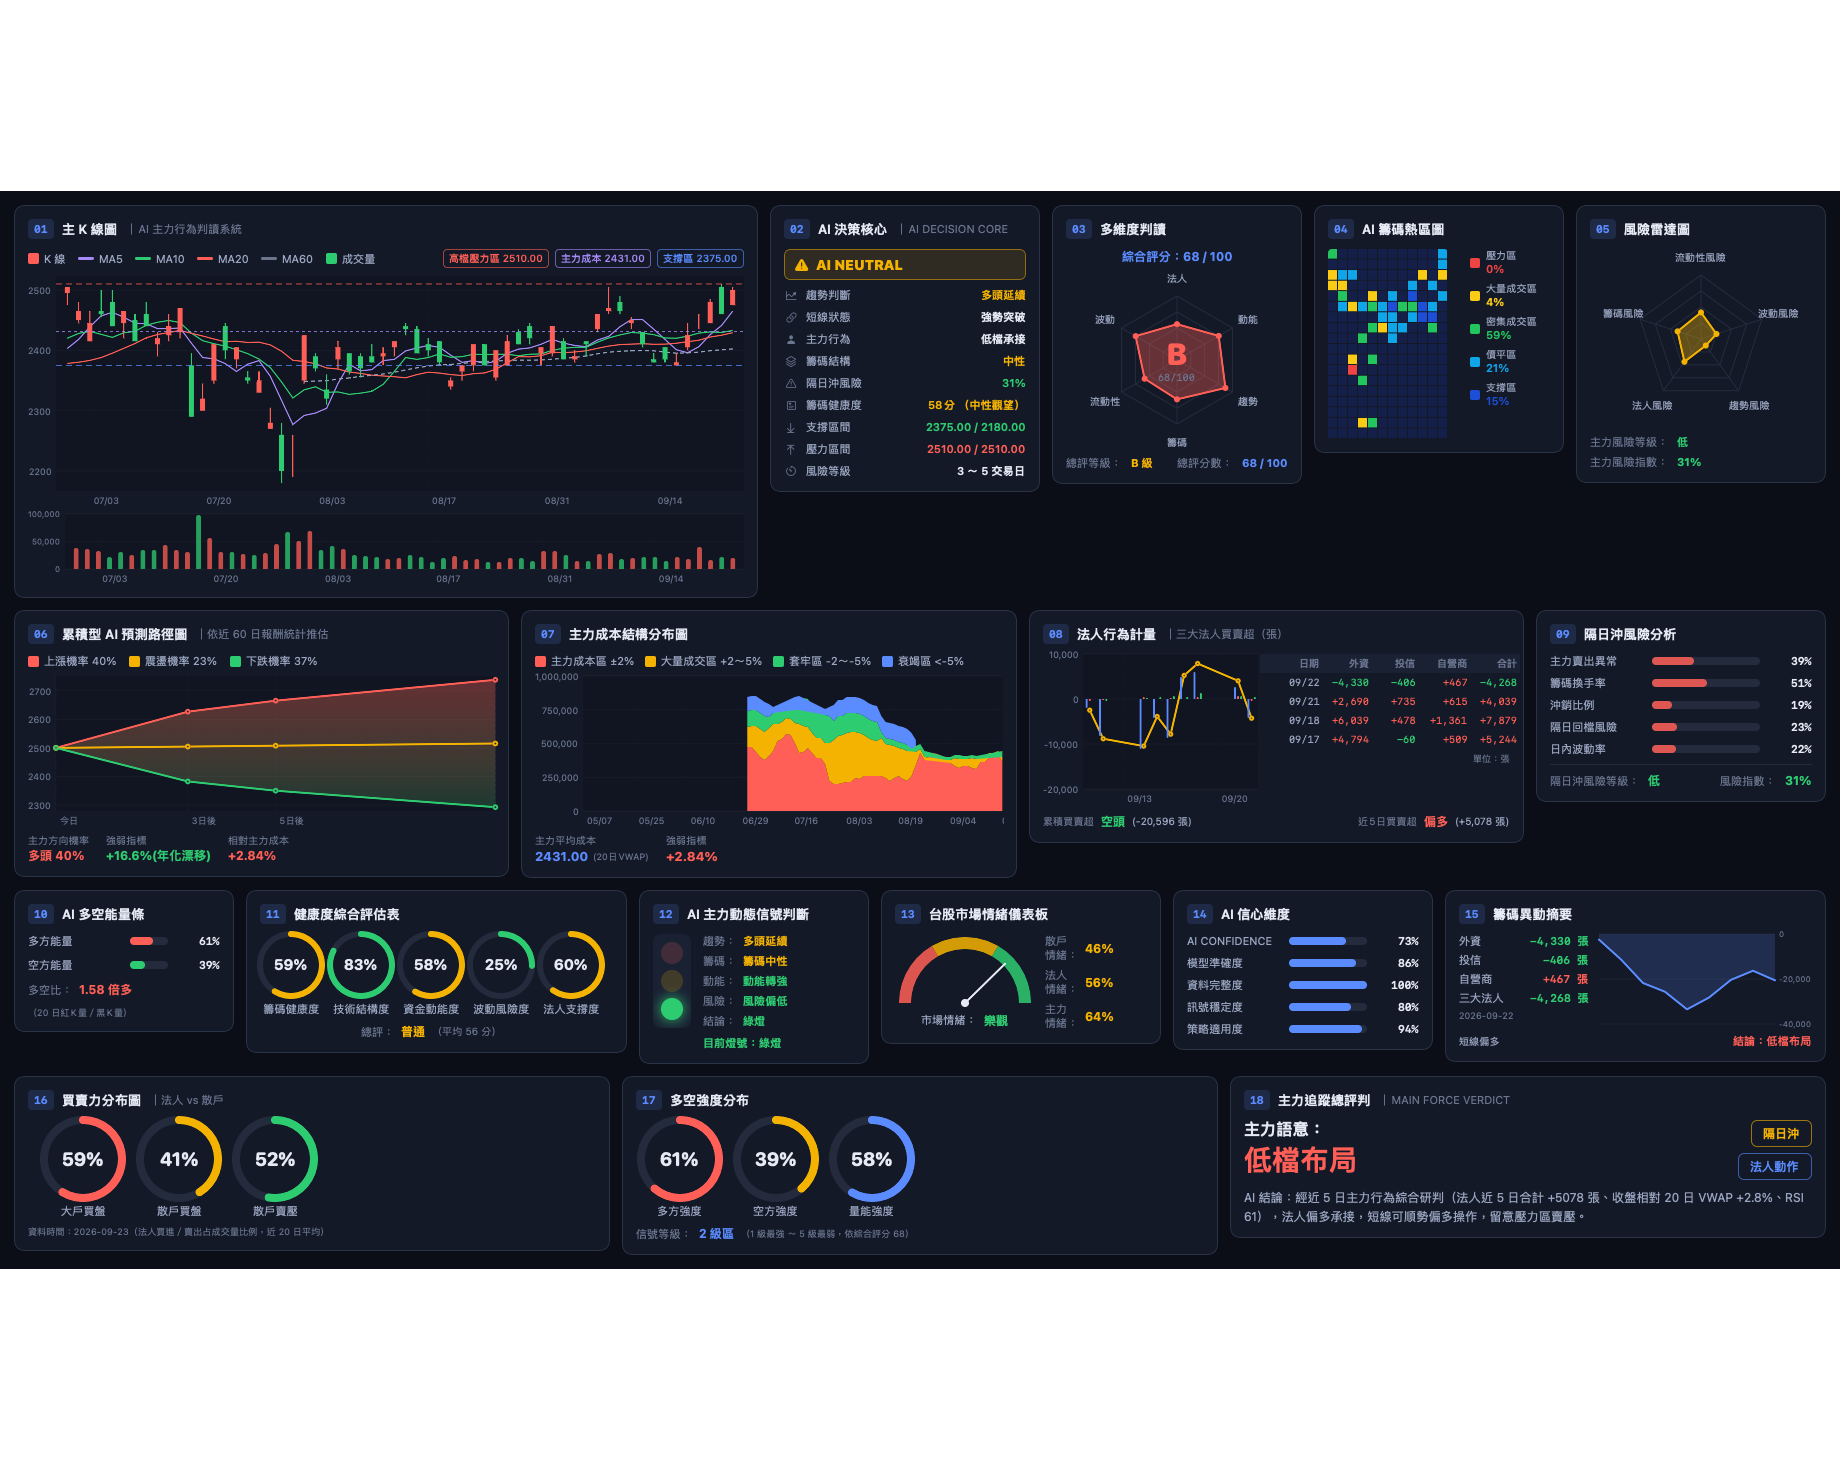
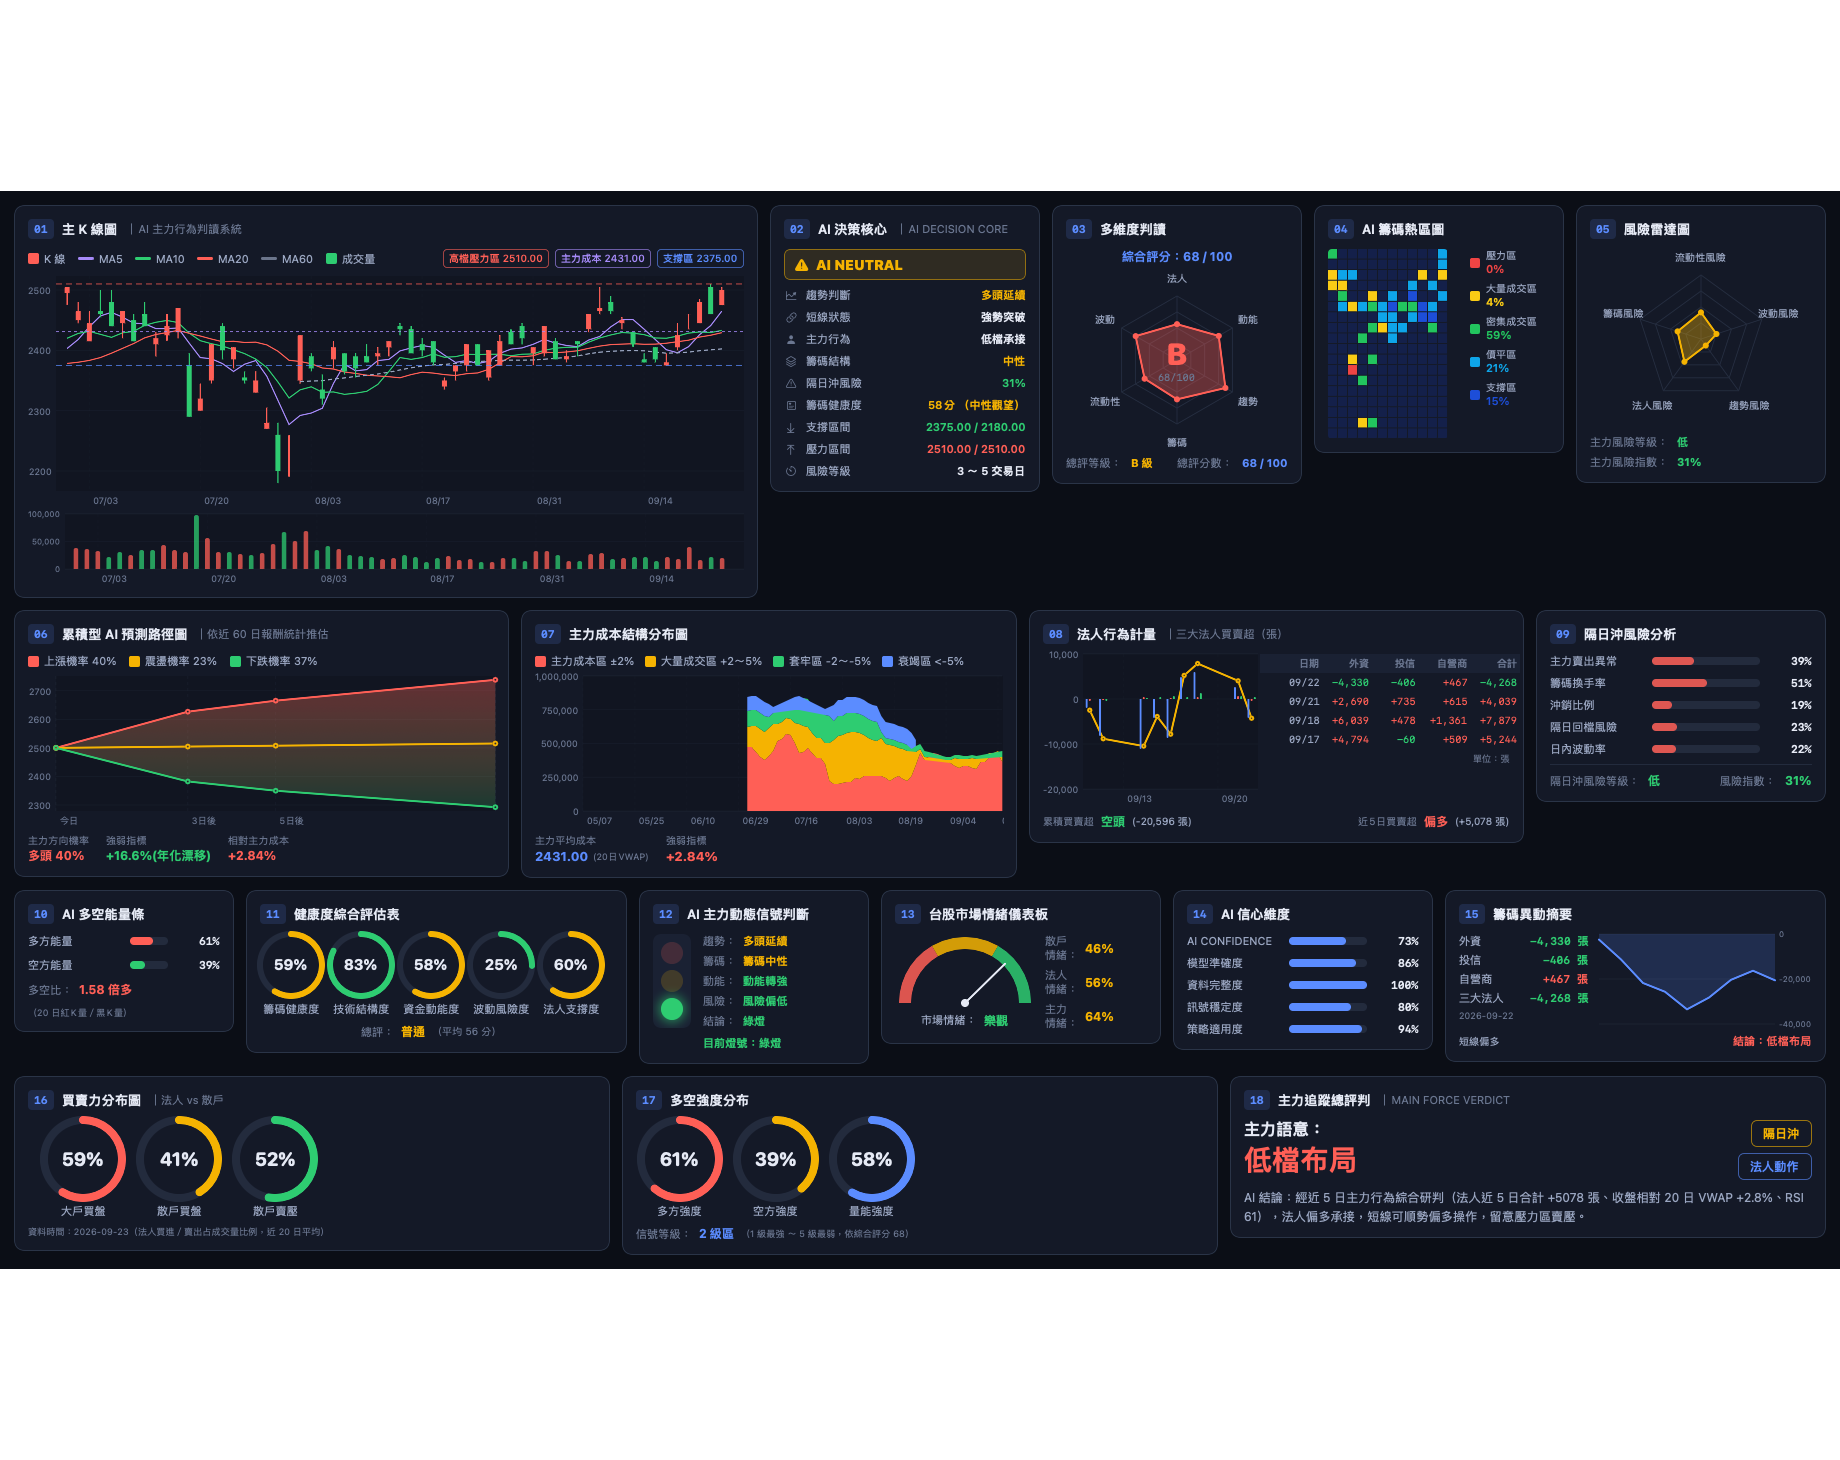
fix: 修正實機執行時發現的視窗與版面問題
實際啟動 App 查詢 2330 後發現並修正：

- 視窗 1180 寬時儀表板被水平裁切且無捲軸：內容區改為雙軸捲動，
  並以 minWidth 讓單一圖表分頁仍撐滿可視寬度
- 視窗預設尺寸放大為 1720×1000，最小尺寸提高到 1280×800
- 關閉視窗後無法再開啟：移除對 .newItem 的覆寫以保留「開新視窗」（⌘N），
  「回到起始畫面」改為 ⌘⇧N，並在關閉最後一個視窗時結束 App
- 頂部行情摘要列在窄視窗可水平捲動，避免右側欄位被擠出畫面
- K 線／MACD 圖右側留白，避免最後一個日期標籤被截斷

Changed region(s): [[0.031, 0.1849, 0.4027, 0.3082], [0.062, 0.3699, 0.4027, 0.4007]]

diff --git a/TWStockAI/Views/RootView.swift b/TWStockAI/Views/RootView.swift
@@ -38,18 +38,23 @@ struct RootView: View {
     @ViewBuilder
     private var content: some View {
         if let dataset = state.dataset, let analysis = state.analysis {
-            ScrollView {
-                Group {
-                    switch state.selectedTab {
-                    case .dashboard: DashboardView(dataset: dataset, analysis: analysis)
-                    case .report: ReportView(dataset: dataset, analysis: analysis)
-                    case .alerts: AlertsView(dataset: dataset, analysis: analysis)
-                    case .kdma: KDMAChartView(dataset: dataset, analysis: analysis)
-                    case .macd: MACDChartView(dataset: dataset, analysis: analysis)
-                    case .raw: RawDataTableView(dataset: dataset, analysis: analysis)
+            // 儀表板寬度大於視窗時需要水平捲動，否則兩側面板會被裁切；
+            // 同時以 minWidth 讓單一圖表分頁仍能撐滿可視寬度。
+            GeometryReader { proxy in
+                ScrollView([.vertical, .horizontal]) {
+                    Group {
+                        switch state.selectedTab {
+                        case .dashboard: DashboardView(dataset: dataset, analysis: analysis)
+                        case .report: ReportView(dataset: dataset, analysis: analysis)
+                        case .alerts: AlertsView(dataset: dataset, analysis: analysis)
+                        case .kdma: KDMAChartView(dataset: dataset, analysis: analysis)
+                        case .macd: MACDChartView(dataset: dataset, analysis: analysis)
+                        case .raw: RawDataTableView(dataset: dataset, analysis: analysis)
+                        }
                     }
+                    .padding(14)
+                    .frame(minWidth: proxy.size.width, alignment: .topLeading)
                 }
-                .padding(14)
             }
             .background(Theme.background)
 

diff --git a/TWStockAI/App/TWStockAIApp.swift b/TWStockAI/App/TWStockAIApp.swift
@@ -1,23 +1,24 @@
 import SwiftUI
+import AppKit
 
 /// 應用程式進入點。
 @main
 struct TWStockAIApp: App {
 
     @StateObject private var state = AppState()
+    @NSApplicationDelegateAdaptor(AppDelegate.self) private var delegate
 
     var body: some Scene {
         WindowGroup {
             RootView()
                 .environmentObject(state)
-                .frame(minWidth: 1180, minHeight: 760)
+                .frame(minWidth: 1280, minHeight: 800)
                 .preferredColorScheme(.dark)
         }
         .windowStyle(.hiddenTitleBar)
+        .defaultSize(width: 1720, height: 1000)
         .commands {
-            // 以選單與快捷鍵補強桌面體驗
-            CommandGroup(replacing: .newItem) { }
-
+            // 保留系統預設的「新增視窗」（⌘N），避免關閉視窗後無法再開啟
             CommandMenu("查詢") {
                 Button("重新分析") {
                     Task { await state.analyze(forceReload: true) }
@@ -28,8 +29,19 @@ struct TWStockAIApp: App {
                 Divider()
 
                 Button("回到起始畫面") { state.reset() }
-                    .keyboardShortcut("n", modifiers: .command)
+                    .keyboardShortcut("n", modifiers: [.command, .shift])
             }
         }
+    }
+}
+
+
+/// 應用程式代理：處理視窗關閉後的生命週期。
+final class AppDelegate: NSObject, NSApplicationDelegate {
+
+    /// 這是單視窗工具型 App，關閉最後一個視窗時直接結束，
+    /// 避免留下沒有視窗卻仍在執行的程序。
+    func applicationShouldTerminateAfterLastWindowClosed(_ sender: NSApplication) -> Bool {
+        true
     }
 }

diff --git a/TWStockAI/Views/Panels/MainChartPanel.swift b/TWStockAI/Views/Panels/MainChartPanel.swift
@@ -96,7 +96,7 @@ struct MainChartPanel: View {
             quotes: visibleRange.map { dataset.quotes[$0] },
             extra: [analysis.pressureZone, analysis.supportZone, analysis.mainForceCost]
         ))
-        .chartXScale(domain: (visibleRange.lowerBound - 1)...(visibleRange.upperBound))
+        .chartXScale(domain: (visibleRange.lowerBound - 1)...(visibleRange.upperBound + 1))
         .chartYAxis {
             AxisMarks(position: .leading) { value in
                 AxisGridLine().foregroundStyle(Theme.grid)
@@ -134,7 +134,7 @@ struct MainChartPanel: View {
                 .foregroundStyle((point.quote.isBullish ? Theme.bullish : Theme.bearish).opacity(0.75))
             }
         }
-        .chartXScale(domain: (visibleRange.lowerBound - 1)...(visibleRange.upperBound))
+        .chartXScale(domain: (visibleRange.lowerBound - 1)...(visibleRange.upperBound + 1))
         .chartYAxis {
             AxisMarks(position: .leading, values: .automatic(desiredCount: 3)) { value in
                 AxisGridLine().foregroundStyle(Theme.grid)

diff --git a/TWStockAI/Views/HeaderView.swift b/TWStockAI/Views/HeaderView.swift
@@ -86,6 +86,14 @@ struct HeaderView: View {
     @ViewBuilder
     private var summaryStrip: some View {
         if let dataset = state.dataset, let latest = dataset.latest {
+            // 視窗較窄時讓摘要列自行捲動，避免右側欄位被擠出畫面
+            ScrollView(.horizontal, showsIndicators: false) {
+                summaryCells(dataset: dataset, latest: latest)
+            }
+        }
+    }
+
+    private func summaryCells(dataset: StockDataset, latest: DailyQuote) -> some View {
             HStack(spacing: 0) {
                 identityCell(dataset: dataset)
                 cell(title: "今日收盤價", value: Format.price(latest.close), tint: Theme.changeColor(latest.change))
@@ -102,7 +110,6 @@ struct HeaderView: View {
             .background(Theme.panelElevated)
             .overlay(RoundedRectangle(cornerRadius: 8).strokeBorder(Theme.border))
             .clipShape(RoundedRectangle(cornerRadius: 8))
-        }
     }
 
     private func identityCell(dataset: StockDataset) -> some View {

diff --git a/TWStockAI/Views/KDMAChartView.swift b/TWStockAI/Views/KDMAChartView.swift
@@ -91,7 +91,7 @@ struct KDMAChartView: View {
             }
         }
         .chartYScale(domain: ChartSupport.priceDomain(quotes: visibleRange.map { dataset.quotes[$0] }))
-        .chartXScale(domain: (visibleRange.lowerBound - 1)...(visibleRange.upperBound))
+        .chartXScale(domain: (visibleRange.lowerBound - 1)...(visibleRange.upperBound + 1))
         .chartYAxis { styledYAxis(label: "價格 (元)") }
         .chartXAxis { styledXAxis }
         .chartPlotStyle { $0.background(Theme.background.opacity(0.4)) }
@@ -159,7 +159,7 @@ struct KDMAChartView: View {
             }
         }
         .chartYScale(domain: 0...100)
-        .chartXScale(domain: (visibleRange.lowerBound - 1)...(visibleRange.upperBound))
+        .chartXScale(domain: (visibleRange.lowerBound - 1)...(visibleRange.upperBound + 1))
         .chartYAxis { styledYAxis(label: "KD") }
         .chartXAxis { styledXAxis }
         .chartPlotStyle { $0.background(Theme.background.opacity(0.4)) }

diff --git a/TWStockAI/Views/MACDChartView.swift b/TWStockAI/Views/MACDChartView.swift
@@ -105,7 +105,7 @@ struct MACDChartView: View {
             }
         }
         .chartYScale(domain: ChartSupport.priceDomain(quotes: visibleRange.map { dataset.quotes[$0] }))
-        .chartXScale(domain: (visibleRange.lowerBound - 1)...(visibleRange.upperBound))
+        .chartXScale(domain: (visibleRange.lowerBound - 1)...(visibleRange.upperBound + 1))
         .chartYAxis { priceAxis }
         .chartXAxis { dateAxis }
         .chartPlotStyle { $0.background(Theme.background.opacity(0.4)) }
@@ -168,7 +168,7 @@ struct MACDChartView: View {
                     .lineStyle(StrokeStyle(lineWidth: 1, dash: [3, 3]))
             }
         }
-        .chartXScale(domain: (visibleRange.lowerBound - 1)...(visibleRange.upperBound))
+        .chartXScale(domain: (visibleRange.lowerBound - 1)...(visibleRange.upperBound + 1))
         .chartYAxis { macdAxis }
         .chartXAxis { dateAxis }
         .chartPlotStyle { $0.background(Theme.background.opacity(0.4)) }

diff --git a/README.md b/README.md
@@ -96,7 +96,7 @@ open ~/Library/Developer/Xcode/DerivedData/TWStockAI-*/Build/Products/Debug/TWSt
 3. 以上方分頁切換儀表板與四大任務報告
 4. 以工具列按鈕匯出 PNG／CSV／HTML／PDF
 
-快捷鍵：`⌘R` 重新分析、`⌘N` 回到起始畫面。
+快捷鍵：`⌘R` 重新分析、`⌘⇧N` 回到起始畫面、`⌘N` 開新視窗。
 
 ## 專案結構
 
